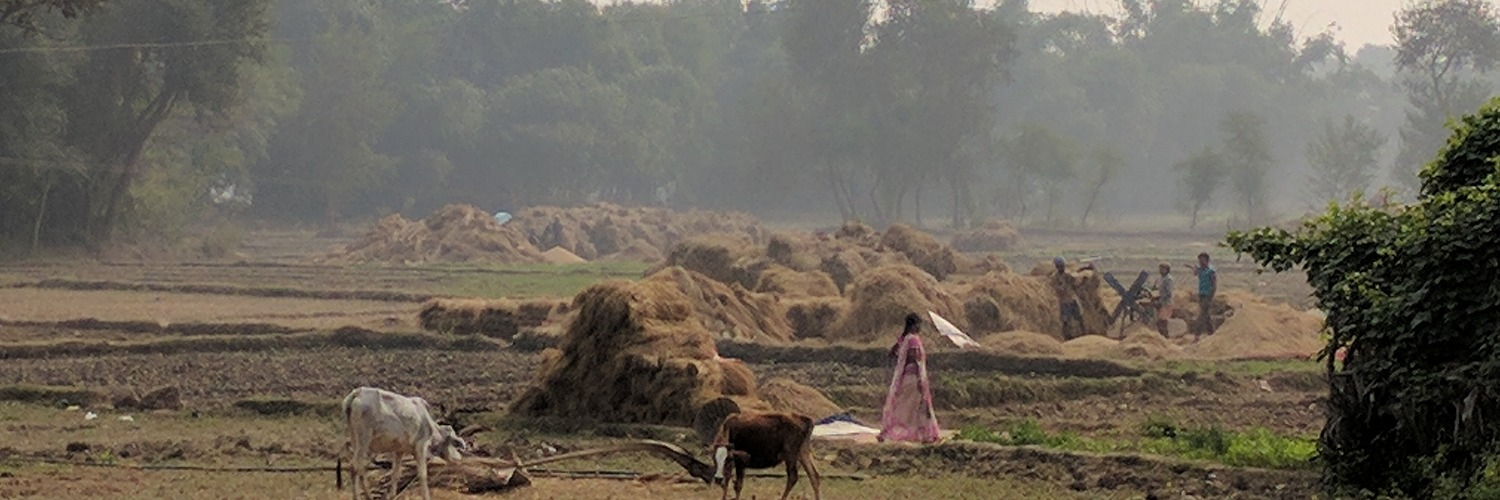
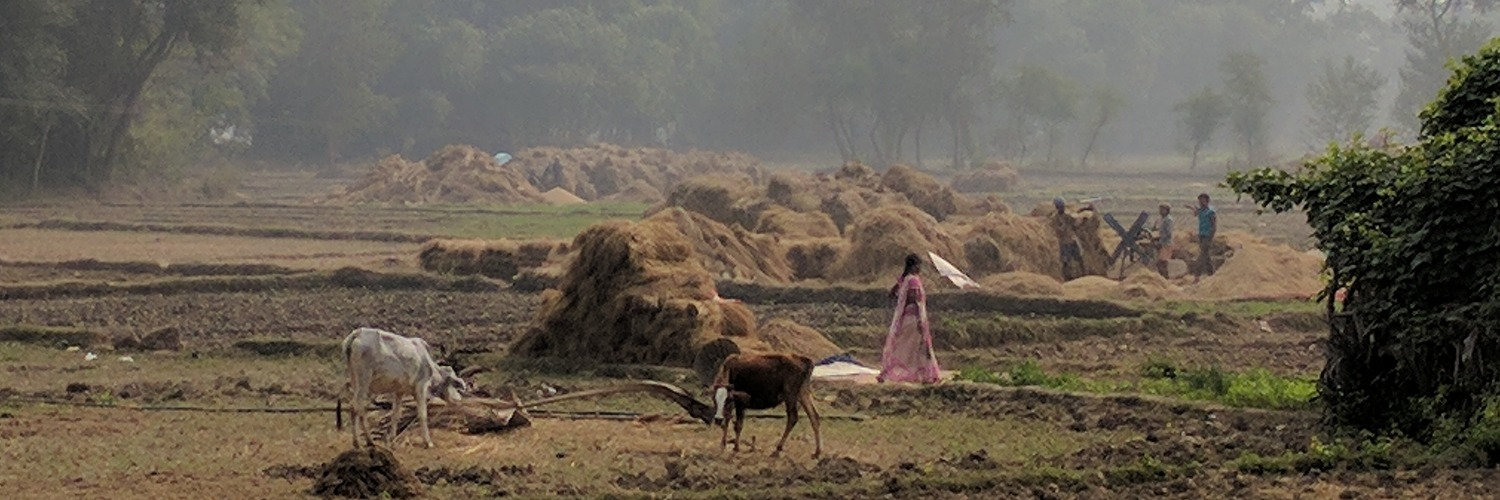
update blog photo

diff --git a/_layouts/blog.html b/_layouts/blog.html
@@ -2,7 +2,7 @@
 layout: default
 ---
 
-<img src="{{ site.github.url }}/assets/img/work.jpeg" alt="Work" width="100%" style="margin-bottom:2%">
+<img src="{{ site.github.url }}/assets/img/lotus.jpeg" alt="Work" width="100%" style="margin-bottom:2%">
 
 {{ content }}
 
